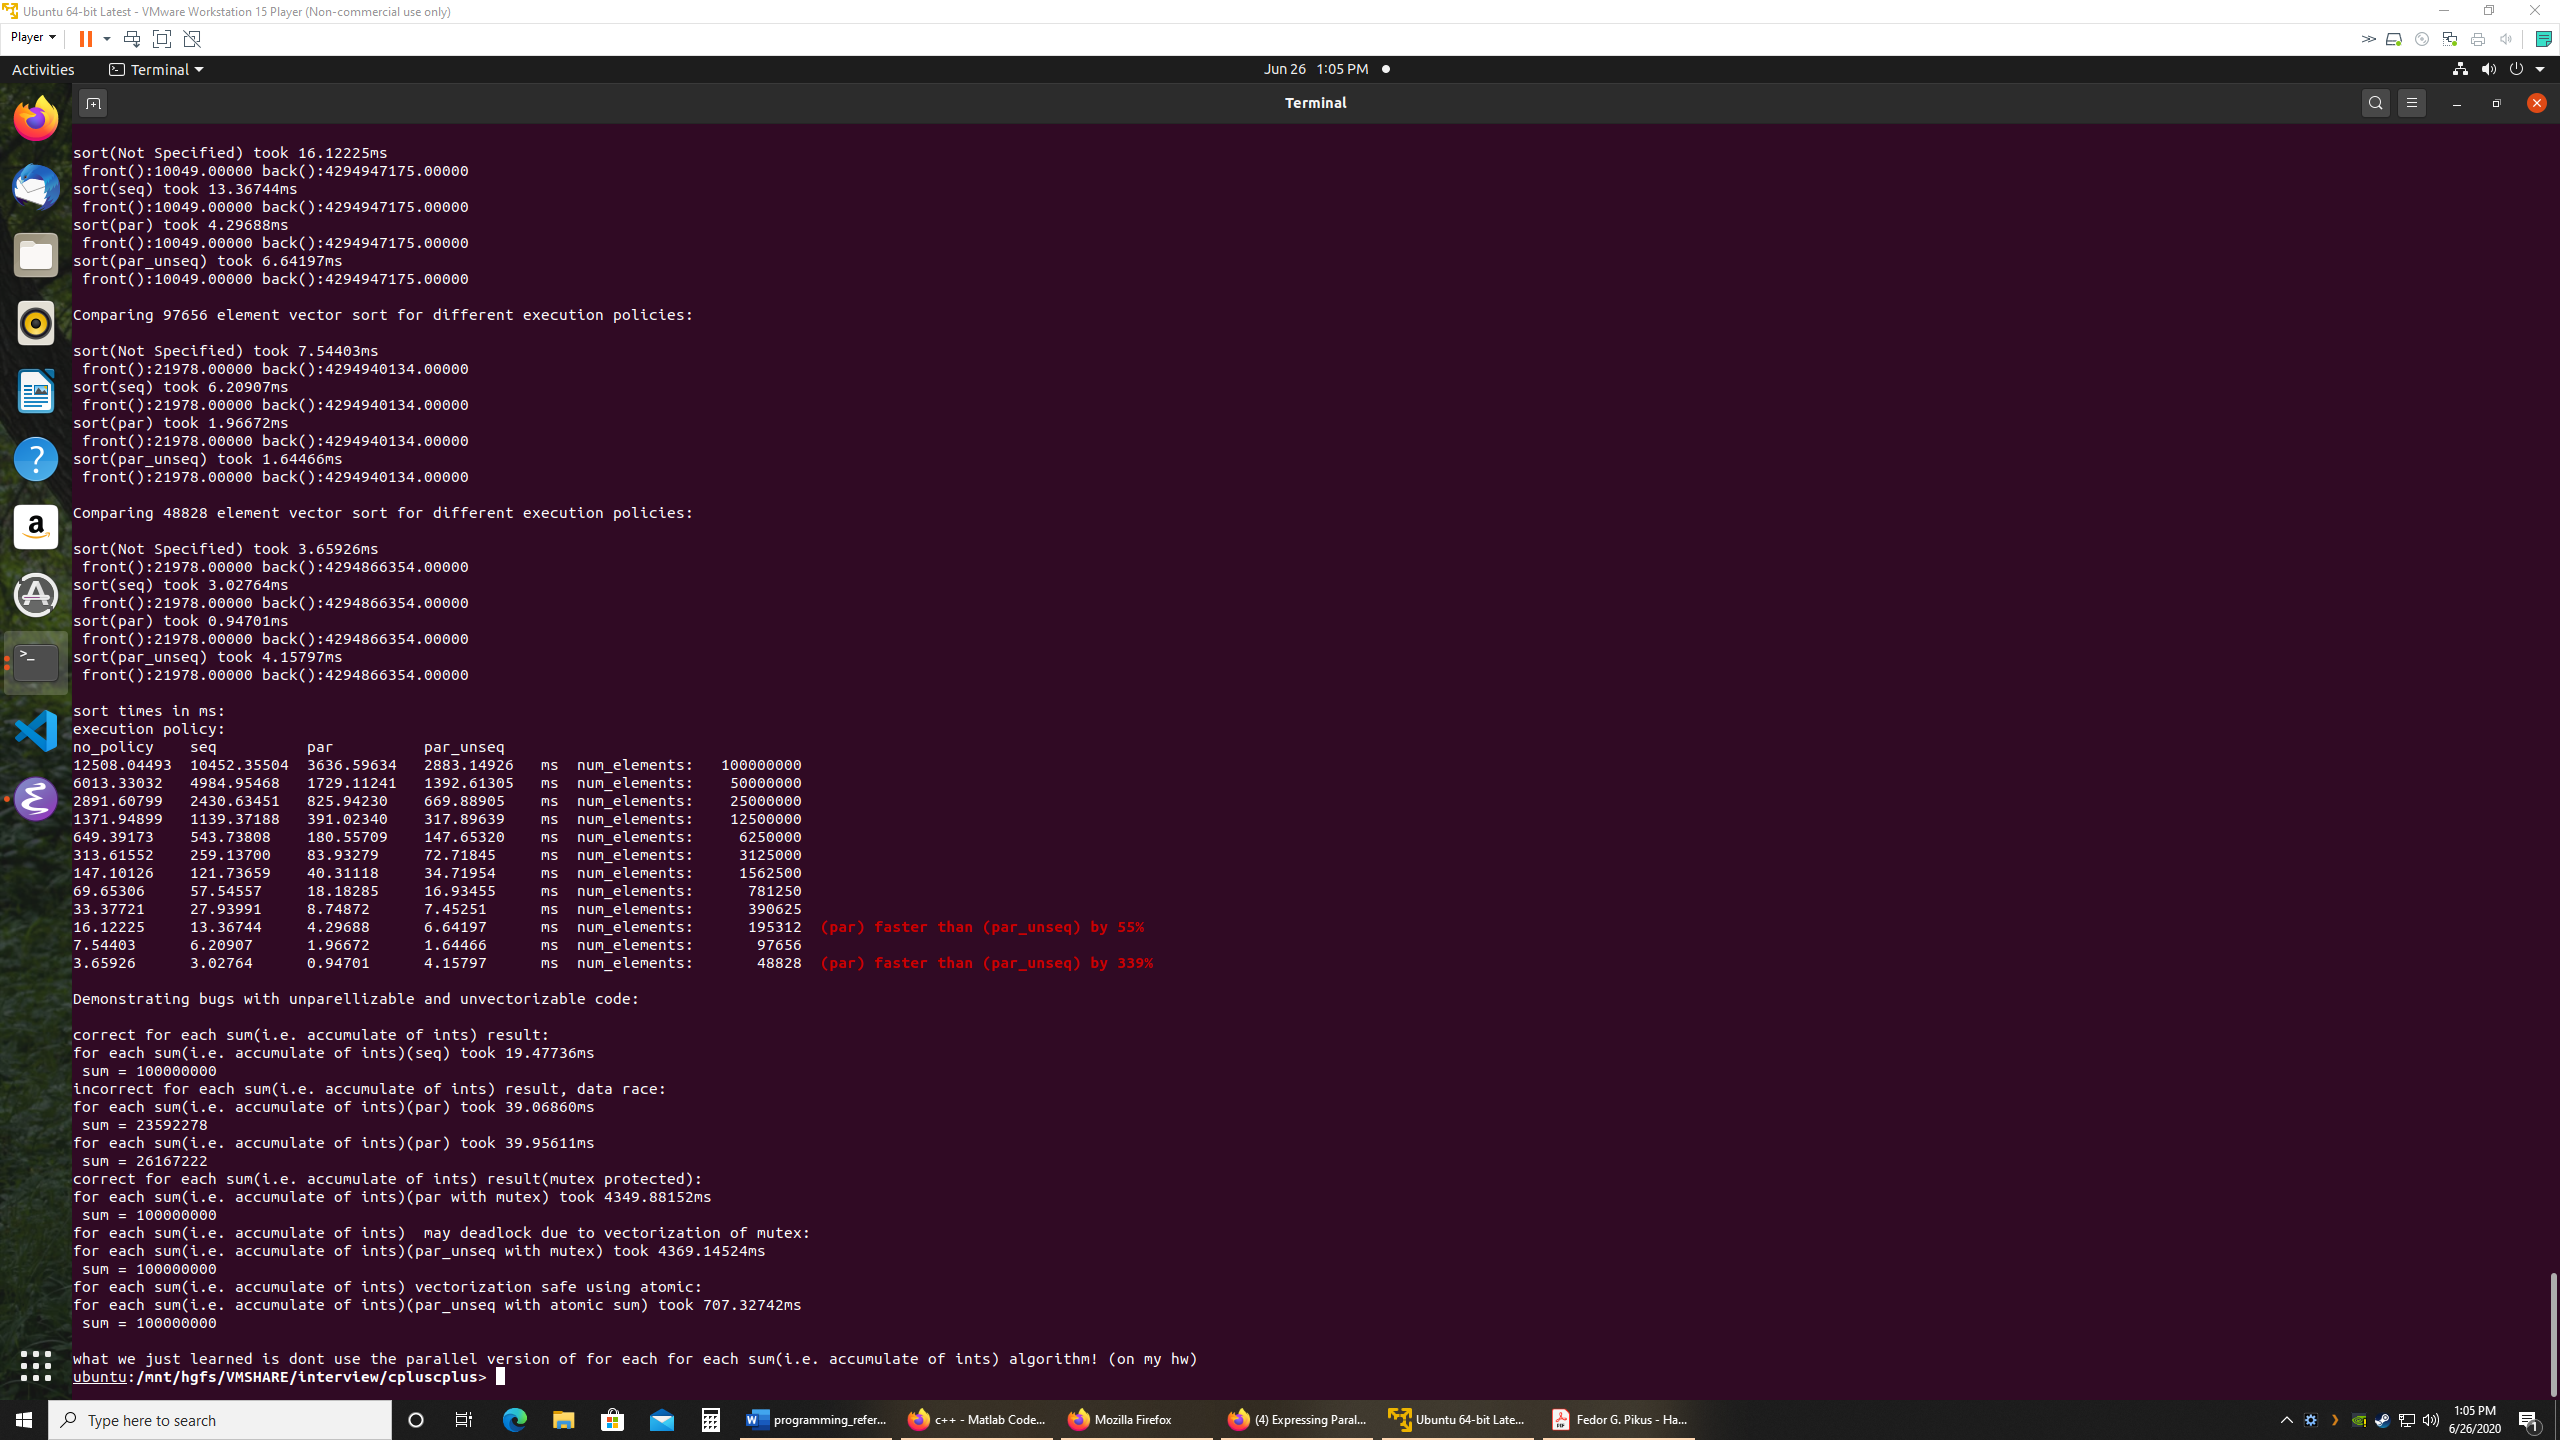
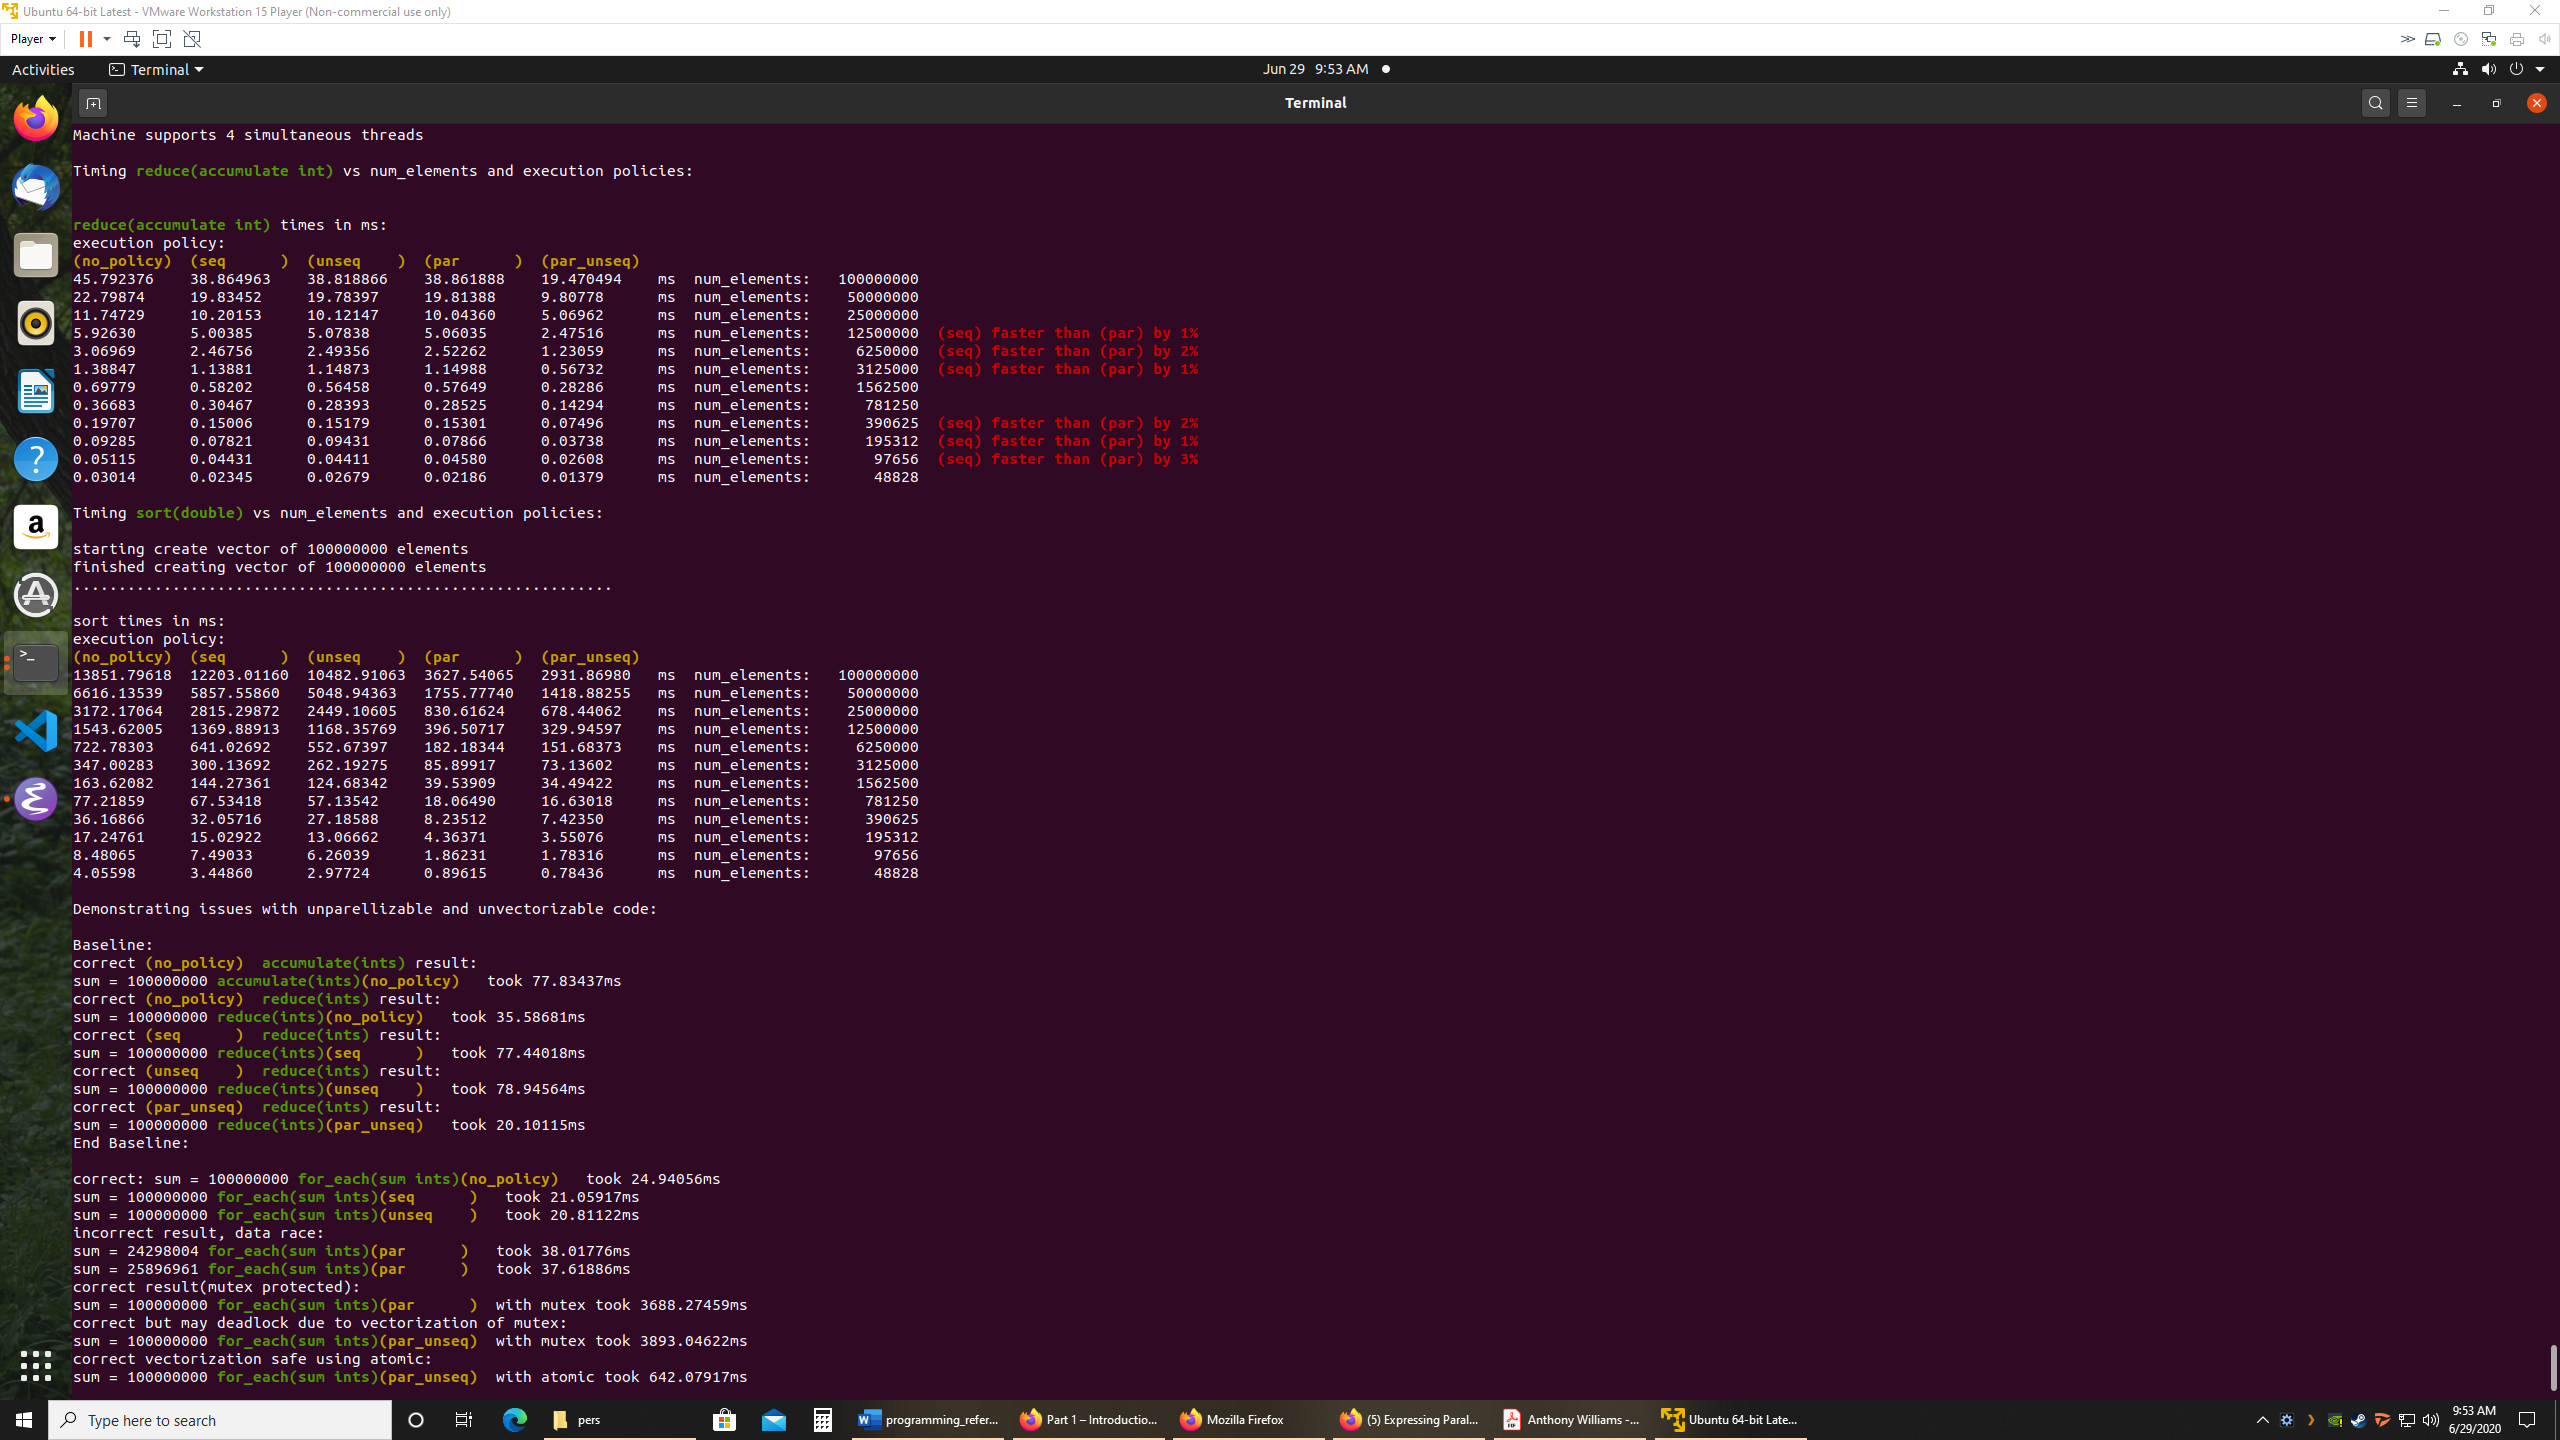
added unseq policy

diff --git a/parallel_algorithms/parallel_algorithms.cpp b/parallel_algorithms/parallel_algorithms.cpp
@@ -27,14 +27,15 @@ using namespace std;
 
 const long unsigned int num_elements = 100'000'000;
 const long unsigned int min_num_elements = num_elements / pow(2, 12);
-double time_results[12][4];  // no policy, seq, par, par_unseq
+double time_results[12][5];  // no policy, seq, unseq, par, par_unseq
 const auto policies =
-    make_tuple(0, execution::seq, execution::par, execution::par_unseq);
+    make_tuple(0, execution::seq, execution::unseq, execution::par, execution::par_unseq);
 const vector<string> policies_string{(YEL_ESCAPE + "(no_policy)  " + RESET_ESCAPE),
                                      (YEL_ESCAPE + "(seq      )  " + RESET_ESCAPE),
+                                     (YEL_ESCAPE + "(unseq    )  " + RESET_ESCAPE),
                                      (YEL_ESCAPE + "(par      )  " + RESET_ESCAPE),
                                      (YEL_ESCAPE + "(par_unseq)  " + RESET_ESCAPE)};
-enum c_execution_policy { NO_POLICY = 0, SEQ, PAR, PAR_UNSEQ };
+enum c_execution_policy { NO_POLICY = 0, SEQ, UNSEQ, PAR, PAR_UNSEQ };
 const int num_iterations = 1;
 const bool debug = false;
 
@@ -51,17 +52,18 @@ string pr_policy_name(const string &policy_name) {
 
 //Analyze the results for each execution policy and for num of element in vector
 //raise alerts if the execution policies are not working
-void print_time_results(double (&time_results)[12][4], string algo_name) {
+void print_time_results(double (&time_results)[12][5], string algo_name) {
   cout << endl << algo_name << " times in ms:" << endl;
   cout << "execution policy:" << endl;
   //setw doesnt work on escape sequences
   cout << left << setw(13) << policies_string[NO_POLICY];
   cout << left << setw(13) << policies_string[SEQ];
+  cout << left << setw(13) << policies_string[UNSEQ];
   cout << left << setw(13) << policies_string[PAR];
   cout << left << setw(13) << policies_string[PAR_UNSEQ] << endl;
 
   for (int i = 0; i < 12; i++) {
-    for (int j = 0; j < 4; j++) {
+    for (int j = 0; j < 5; j++) {
       cout << fixed << left << setw(12) << time_results[i][j] << " ";
     }
 
@@ -124,11 +126,13 @@ int main() {
         case 0:
           result = reduce(v.begin(), v.end(), 0.0);
         case 1:
-          result = reduce(get<1>(policies), v.begin(), v.end(), 0.0);
+          result = reduce(get<SEQ>(policies), v.begin(), v.end(), 0.0);
         case 2:
-          result = reduce(get<2>(policies), v.begin(), v.end(), 0.0);
+          result = reduce(get<UNSEQ>(policies), v.begin(), v.end(), 0.0);
         case 3:
-          result = reduce(get<3>(policies), v.begin(), v.end(), 0.0);
+          result = reduce(get<PAR>(policies), v.begin(), v.end(), 0.0);
+        case 4:
+          result = reduce(get<PAR_UNSEQ>(policies), v.begin(), v.end(), 0.0);
       }
 
       auto end = chrono::high_resolution_clock::now();
@@ -182,11 +186,13 @@ int main() {
         case 0:
           sort(sorted.begin(), sorted.end());
         case 1:
-          sort(get<1>(policies), sorted.begin(), sorted.end());
+          sort(get<SEQ>(policies), sorted.begin(), sorted.end());
         case 2:
-          sort(get<2>(policies), sorted.begin(), sorted.end());
+          sort(get<UNSEQ>(policies), sorted.begin(), sorted.end());
         case 3:
-          sort(get<3>(policies), sorted.begin(), sorted.end());
+          sort(get<PAR>(policies), sorted.begin(), sorted.end());
+        case 4:
+          sort(get<PAR_UNSEQ>(policies), sorted.begin(), sorted.end());
       }
 
       auto end = chrono::high_resolution_clock::now();
@@ -243,17 +249,27 @@ int main() {
   {
     auto start = chrono::high_resolution_clock::now();
     sum = 0;
-    sum = reduce(get<1>(policies), v.begin(), v.end(), 0.0);
+    sum = reduce(get<SEQ>(policies), v.begin(), v.end(), 0.0);
     auto end = chrono::high_resolution_clock::now();
     chrono::duration<double, milli> time = end - start;
     cout << "sum = " << sum << " " << fixed << algo_name << policies_string[SEQ] << " took " << time.count() << "ms"
          << endl;
   }
-    cout << "correct " << policies_string[PAR_UNSEQ] << algo_name << " result:" << endl;
+  cout << "correct " << policies_string[UNSEQ] << algo_name << " result:" << endl;
   {
     auto start = chrono::high_resolution_clock::now();
     sum = 0;
-    sum = reduce(get<3>(policies), v.begin(), v.end(), 0.0);
+    sum = reduce(get<UNSEQ>(policies), v.begin(), v.end(), 0.0);
+    auto end = chrono::high_resolution_clock::now();
+    chrono::duration<double, milli> time = end - start;
+    cout << "sum = " << sum << " " << fixed << algo_name << policies_string[UNSEQ] << " took " << time.count() << "ms"
+         << endl;
+  }
+  cout << "correct " << policies_string[PAR_UNSEQ] << algo_name << " result:" << endl;
+  {
+    auto start = chrono::high_resolution_clock::now();
+    sum = 0;
+    sum = reduce(get<PAR_UNSEQ>(policies), v.begin(), v.end(), 0.0);
     auto end = chrono::high_resolution_clock::now();
     chrono::duration<double, milli> time = end - start;
     cout << "sum = " << sum << " " << fixed << algo_name << policies_string[PAR_UNSEQ] << " took " << time.count() << "ms"
@@ -282,6 +298,16 @@ int main() {
     auto end = chrono::high_resolution_clock::now();
     chrono::duration<double, milli> time = end - start;
     cout << "sum = " << sum << " " << fixed << algo_name << policies_string[SEQ] << " took " << time.count() << "ms"
+         << endl;
+  }
+  {
+    auto start = chrono::high_resolution_clock::now();
+    sum = 0;
+    for_each(execution::unseq, begin(v), end(v),
+             [&](int i) { sum += i; });
+    auto end = chrono::high_resolution_clock::now();
+    chrono::duration<double, milli> time = end - start;
+    cout << "sum = " << sum << " " << fixed << algo_name << policies_string[UNSEQ] << " took " << time.count() << "ms"
          << endl;
   }
   cout << "incorrect result, data race:" << endl;

diff --git a/README.md b/README.md
@@ -19,7 +19,7 @@ Concepts include:
 * testing for maximum sum invariance under left right symmetry and tree rotation
 
 ## parallel_algorithms directory
-Looks at C++17 STL sort and reduce using par,seq,par_unseq execution policies.
+Looks at C++17 STL sort and reduce and for_each using seq,unseq,par,par_unseq execution policies.
 Also looks at ways of writing code that make algorithms unparallelizable
 and unvectorizable.
 Conclusion:
